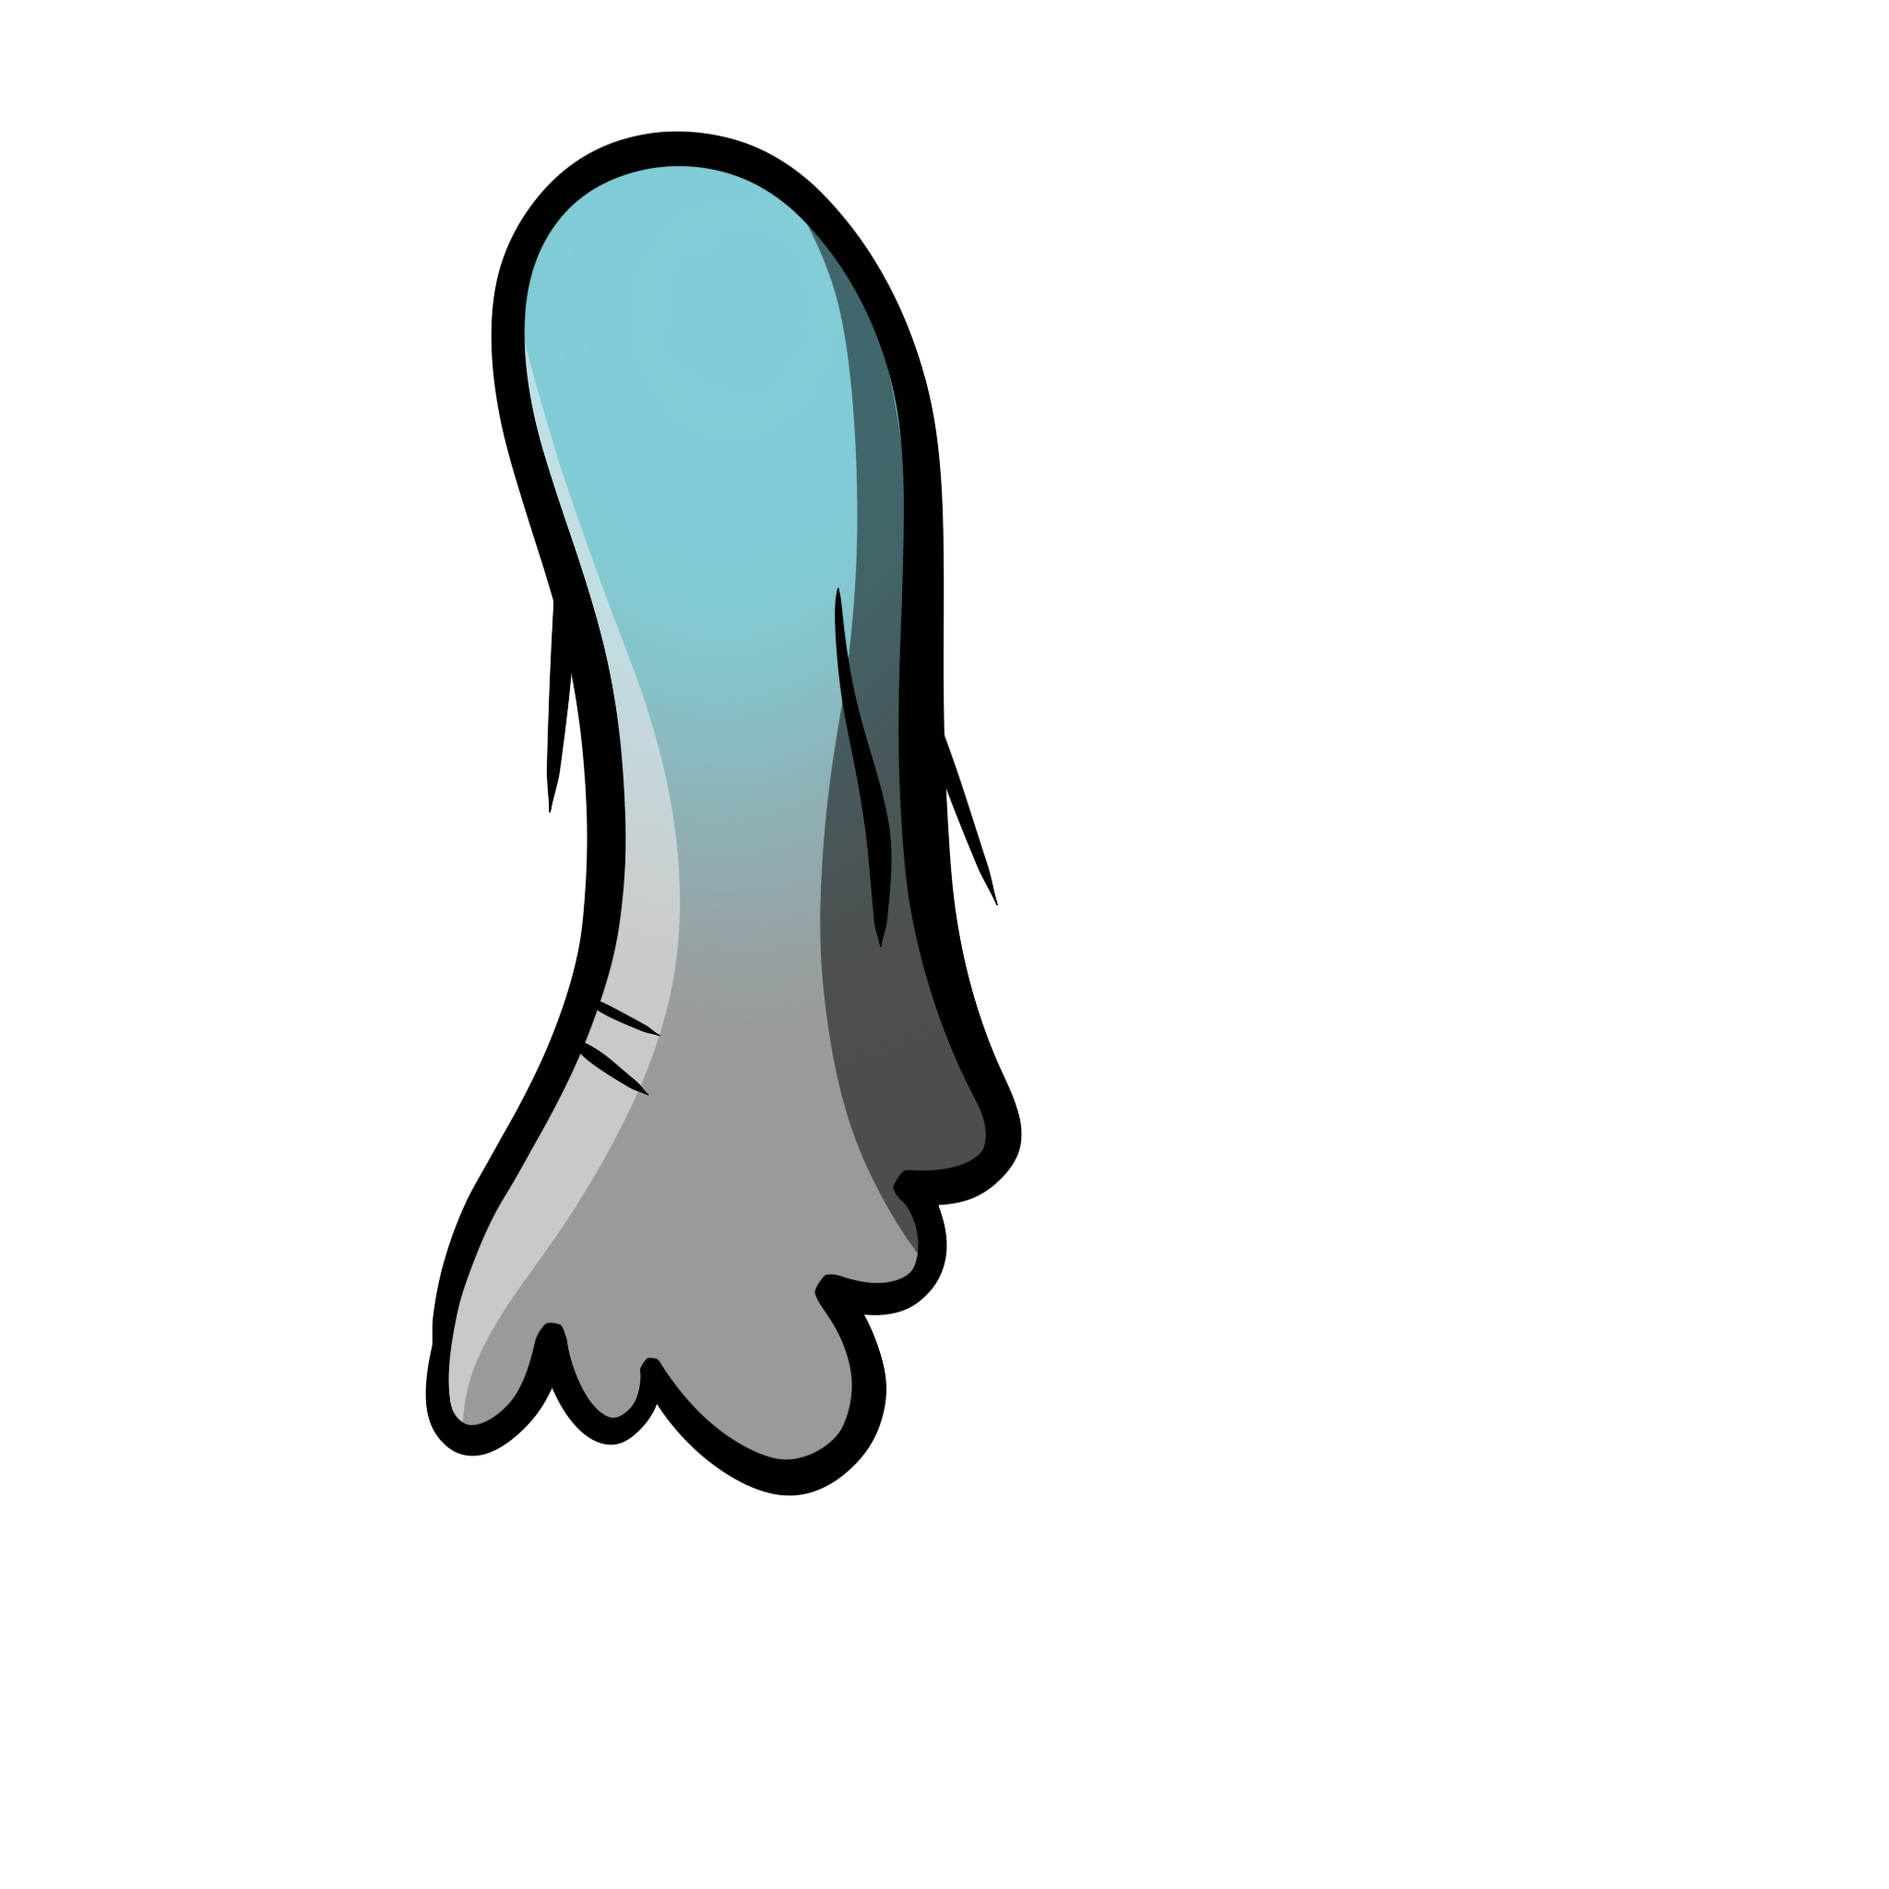
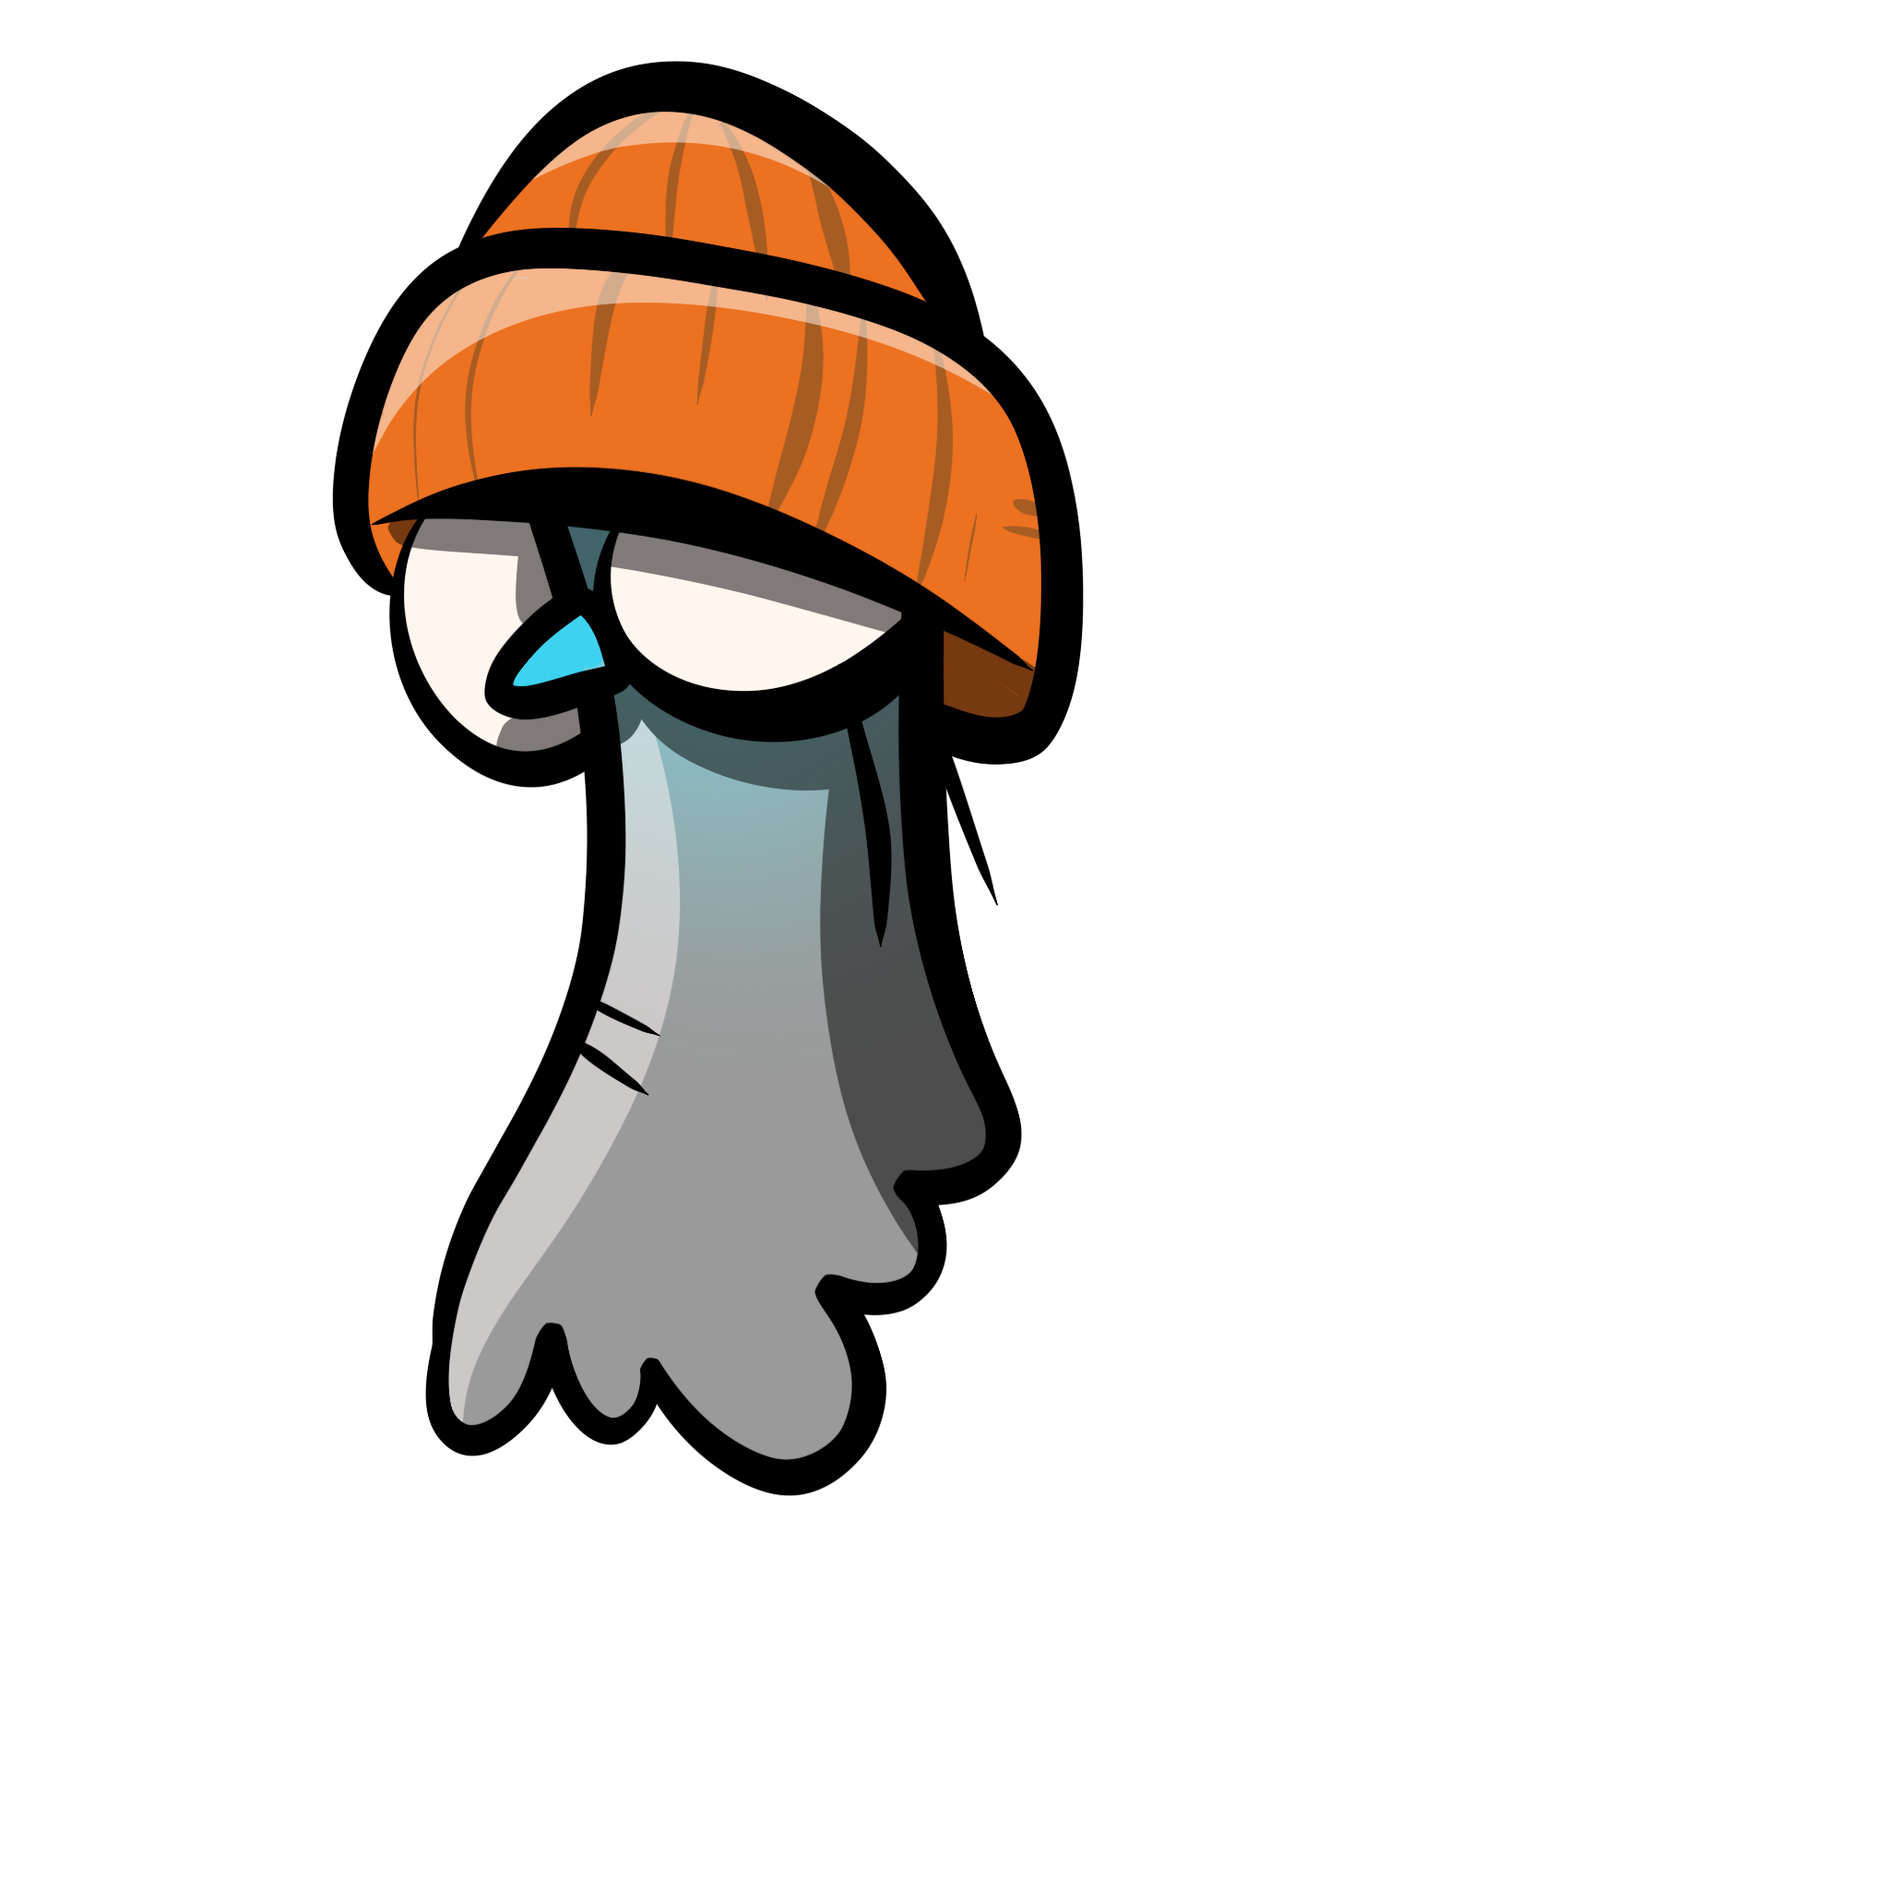
Implement multi-pigeon nest management and breeding
- Refactored database to support multiple pigeons per user at pigeons/{uid}/{id}.
- Implemented 3-pigeon cap (1 active, 2 nesting) with swapping logic.
- Added breeding requirement (5-day streak/cooldown) and sacrifice workflow.
- Updated Nest screen UI with Active/Nesting tags and swap buttons.
- Centered login screen and capped width at 540px.
- Improved pigeon animations and hatching reliability.

Changed region(s): [[0.1562, 0.0312, 0.5938, 0.4375]]

diff --git a/js/app.js b/js/app.js
@@ -434,18 +434,8 @@ const App = (() => {
         }
       }
 
-      // We want the active pigeon to be a hatched one if possible for Home/Profile display
-      const hatched = all.filter(p => p.hatched);
       const activeId = _userData.activePigeonId || _user.uid;
-
-      let candidate = all.find(p => p.id === activeId);
-
-      // If active candidate is an egg but we have hatched pigeons, default to a hatched one
-      if (candidate && !candidate.hatched && hatched.length > 0) {
-        candidate = hatched.find(p => p.id === _user.uid) || hatched[0];
-      }
-
-      _pigeon = candidate || all[0] || null;
+      _pigeon = all.find(p => p.id === activeId) || all[0] || null;
 
       // Sync locks for all pigeons (especially eggs in the nest)
       all.forEach(p => _syncLocksFromDB(_user.uid, p));
@@ -837,89 +827,111 @@ const App = (() => {
     const streakEl = document.getElementById("home-streak");
     if (streakEl) streakEl.textContent = streak;
 
-    // Mood state
-    const missedDays = _calcMissedDays(_userData.loginDates ?? []);
-    const rehabDay   = _pigeon.rehabDay ?? 0;
-    const mood = getMood(_pigeon.bond ?? 50, missedDays, rehabDay);
+    const careSection = document.getElementById("home-care-section");
+    const eggSection = document.getElementById("home-egg-section");
+    const moodBadge = document.getElementById("mood-badge");
+    const bondBar = document.querySelector(".mood-section");
 
-    // Build pigeon rig with correct animation state
-    const rig = document.getElementById("home-rig");
-    if (rig) {
-      if (_pigeon.hatched) {
+    if (_pigeon.hatched) {
+      careSection.classList.remove("hidden");
+      eggSection.classList.add("hidden");
+      moodBadge.classList.remove("hidden");
+      bondBar.classList.remove("hidden");
+
+      // Mood state
+      const missedDays = _calcMissedDays(_userData.loginDates ?? []);
+      const rehabDay   = _pigeon.rehabDay ?? 0;
+      const mood = getMood(_pigeon.bond ?? 50, missedDays, rehabDay);
+
+      // Build pigeon rig with correct animation state
+      const rig = document.getElementById("home-rig");
+      if (rig) {
         buildPigeonRig(rig, traits, { idle: mood === "happy" || mood === "neutral" });
         // Apply mood-specific animation class
         rig.classList.remove("feral","rehab","low-hp");
         if (mood === "feral") rig.classList.add("feral");
         if (mood === "rehab") rig.classList.add("rehab");
-      } else {
-        // Fallback for unhatched egg (though _loadPigeons tries to avoid this being active)
-        const daysDone = (_pigeon.incubationLog ?? []).length;
+      }
+
+      // Mood badge
+      const MOOD_LABELS = {
+        happy:   "😄 Happy",
+        neutral: "😐 Neutral",
+        upset:   "😤 Upset",
+        feral:   "💀 FERAL",
+        rehab:   "🩹 Recovering",
+      };
+      if (moodBadge) {
+        moodBadge.className = `mood-badge show ${mood}`;
+        moodBadge.textContent = MOOD_LABELS[mood] ?? mood;
+      }
+
+      updateBondUI(_pigeon.bond ?? 50);
+      renderStatChips("quick-stats", stats);
+
+      // Mark care cards as done and show countdowns
+      const CARE_FIELDS  = { food: "lastFed", play: "lastPlayed", train: "lastTrained" };
+      ["food","play","train"].forEach((care) => {
+        const btn   = document.getElementById(`care-${care}`);
+        const field = CARE_FIELDS[care];
+        const done  = _pigeon[field] === today || (_user && _isActionLocked(_user.uid, care));
+        if (btn) btn.classList.toggle("done", done);
+      });
+
+      let cdWrap = document.getElementById("care-countdown");
+      const anyDone = ["food","play","train"].some((c) => _pigeon[CARE_FIELDS[c]] === today);
+      if (anyDone) {
+        if (!cdWrap) {
+          cdWrap = document.createElement("div");
+          cdWrap.id = "care-countdown";
+          cdWrap.className = "countdown-wrap";
+          cdWrap.innerHTML = `
+            <span class="countdown-label">Next Peck available in</span>
+            <span class="countdown-timer js-countdown">—</span>
+            <span class="countdown-sub">Actions reset at midnight</span>
+          `;
+          careSection.appendChild(cdWrap);
+        }
+      } else if (cdWrap) cdWrap.remove();
+
+    } else {
+      // It's an egg!
+      careSection.classList.add("hidden");
+      eggSection.classList.remove("hidden");
+      moodBadge.classList.add("hidden");
+      bondBar.classList.add("hidden");
+
+      const daysDone = (_pigeon.incubationLog ?? []).length;
+      const rig = document.getElementById("home-rig");
+      if (rig) {
         let eggState = "egg_whole";
         if (daysDone === 1) eggState = "egg_crack1";
         if (daysDone >= 2) eggState = "egg_crack2";
         rig.innerHTML = `<img src="${PIGEON_CONFIG.eggPath(eggState)}" class="egg-img" style="max-width:200px">`;
       }
-    }
 
-    // Mood badge
-    const MOOD_LABELS = {
-      happy:   "😄 Happy",
-      neutral: "😐 Neutral",
-      upset:   "😤 Upset",
-      feral:   "💀 FERAL",
-      rehab:   "🩹 Recovering",
-    };
-    const badge = document.getElementById("mood-badge");
-    if (badge) {
-      badge.className = `mood-badge show ${mood}`;
-      badge.textContent = MOOD_LABELS[mood] ?? mood;
-    }
+      const label = document.getElementById("home-egg-label");
+      if (label) label.textContent = `Incubation: ${daysDone}/3 Days`;
 
-    updateBondUI(_pigeon.bond ?? 50);
-    renderStatChips("quick-stats", stats);
+      const usedToday = _pigeon.lastActionDate === today || (_user && _isActionLocked(_user.uid, `egg_${_pigeon.id}`));
+      document.getElementById("home-egg-grid").style.display = usedToday ? "none" : "grid";
+      document.getElementById("home-egg-used").classList.toggle("hidden", !usedToday);
 
-    // Mark care cards as done and show countdowns
-    const CARE_FIELDS  = { food: "lastFed", play: "lastPlayed", train: "lastTrained" };
-    const CARE_LABELS  = { food: "Next Feed", play: "Next Play", train: "Next Training" };
-    const CARE_SUBS    = { food: "Your bird is full", play: "Pigeon is tired", train: "Muscles need rest" };
-
-    ["food","play","train"].forEach((care) => {
-      const btn   = document.getElementById(`care-${care}`);
-      const field = CARE_FIELDS[care];
-      // Check database data OR localStorage — both count as done
-      const done  = _pigeon[field] === today
-        || (_user && _isActionLocked(_user.uid, care));
-      if (btn) btn.classList.toggle("done", done);
-    });
-
-    // Single countdown below care grid — shows time until midnight reset
-    let cdWrap = document.getElementById("care-countdown");
-    const anyDone = ["food","play","train"].some(
-      (c) => _pigeon[CARE_FIELDS[c]] === today
-    );
-    if (anyDone) {
-      if (!cdWrap) {
-        cdWrap = document.createElement("div");
-        cdWrap.id = "care-countdown";
-        cdWrap.className = "countdown-wrap";
-        cdWrap.innerHTML = `
-          <span class="countdown-label">Next Peck available in</span>
-          <span class="countdown-timer js-countdown">—</span>
-          <span class="countdown-sub">Actions reset at midnight</span>
-        `;
-        const careSection = document.querySelector(".care-section");
-        if (careSection) careSection.appendChild(cdWrap);
-      }
-    } else {
-      if (cdWrap) cdWrap.remove();
+      document.getElementById("quick-stats").innerHTML = "";
     }
   }
 
   function _initCareActions() {
-    document.querySelector(".care-grid")?.addEventListener("click", async (e) => {
+    document.getElementById("home-care-section")?.addEventListener("click", async (e) => {
       const card = e.target.closest(".care-card");
       if (!card || card.classList.contains("done")) return;
-      await _doCareAction(card.dataset.care);
+      if (card.dataset.care) await _doCareAction(card.dataset.care);
+    });
+
+    document.getElementById("home-egg-section")?.addEventListener("click", async (e) => {
+      const card = e.target.closest(".care-card");
+      if (!card) return;
+      if (card.dataset.egg) await _doEggAction(card.dataset.egg);
     });
   }
 
@@ -1070,9 +1082,15 @@ const App = (() => {
         } else {
           statusText = `EGG • ${daysDone}/3 DAYS`;
           if (daysDone >= 3) {
-            actionsHtml = `<button class="btn-primary btn-sm btn-hatch" data-id="${p.id}">HATCH!</button>`;
+            actionsHtml = `
+              ${!isActive ? `<button class="btn-ghost btn-sm btn-switch" style="margin-bottom:4px" data-id="${p.id}">Make Active</button>` : ''}
+              <button class="btn-primary btn-sm btn-hatch" data-id="${p.id}">HATCH!</button>
+            `;
           } else if (usedToday) {
-            actionsHtml = `<span class="nest-egg-done">Done for today</span>`;
+            actionsHtml = `
+              <span class="nest-egg-done">Done for today</span>
+              ${!isActive ? `<button class="btn-ghost btn-sm btn-switch" data-id="${p.id}">Make Active</button>` : ''}
+            `;
           } else {
             actionsHtml = `
               <div class="nest-egg-actions">
@@ -1080,6 +1098,7 @@ const App = (() => {
                 <button class="btn-nest-action" data-id="${p.id}" data-action="heat" title="Heat">🔥</button>
                 <button class="btn-nest-action" data-id="${p.id}" data-action="lick" title="Lick">👅</button>
               </div>
+              ${!isActive ? `<button class="btn-ghost btn-sm btn-switch" style="margin-top:4px" data-id="${p.id}">Make Active</button>` : ''}
             `;
           }
         }
@@ -1889,8 +1908,22 @@ const App = (() => {
     return streak;
   }
 
-  return { boot, saveNewPigeon, recordBattleResult };
+  return {
+    boot,
+    saveNewPigeon,
+    recordBattleResult,
+    // Expose for verification
+    _renderNestScreen,
+    _renderHomeScreen,
+    setDebugData: (data) => {
+      if (data.userData) _userData = data.userData;
+      if (data.pigeon) _pigeon = data.pigeon;
+      if (data.user) _user = data.user;
+    }
+  };
 })();
+
+window.App = App;
 
 /* ── Start the app ── */
 document.addEventListener("DOMContentLoaded", App.boot);

diff --git a/index.html b/index.html
@@ -246,7 +246,7 @@
     </div>
 
     <!-- Daily care actions -->
-    <div class="care-section">
+    <div class="care-section" id="home-care-section">
       <p class="section-label">Daily Care</p>
       <div class="care-grid">
         <button class="care-card" data-care="food" id="care-food">
@@ -261,6 +261,29 @@
           <i class="fa-solid fa-dumbbell"></i>
           <span>Train</span>
         </button>
+      </div>
+    </div>
+
+    <!-- Egg incubation section (hidden by default) -->
+    <div class="care-section hidden" id="home-egg-section">
+      <p class="section-label" id="home-egg-label">Incubation</p>
+      <div class="care-grid" id="home-egg-grid">
+        <button class="care-card" data-egg="shake">
+          <span style="font-size:24px">🫳</span>
+          <span>Shake</span>
+        </button>
+        <button class="care-card" data-egg="heat">
+          <span style="font-size:24px">🔥</span>
+          <span>Heat</span>
+        </button>
+        <button class="care-card" data-egg="lick">
+          <span style="font-size:24px">👅</span>
+          <span>Lick</span>
+        </button>
+      </div>
+      <div id="home-egg-used" class="countdown-wrap hidden">
+         <span class="countdown-label">Next Nudge in</span>
+         <span class="countdown-timer js-countdown">—</span>
       </div>
     </div>
 

diff --git a/js/config.js b/js/config.js
@@ -53,7 +53,7 @@ const PIGEON_CONFIG = {
     tail:     7,   // tail_1.png     … tail_7.png
     torso:    8,   // torso_1.png    … torso_8.png
     leg_near: 6,   // leg_near_1.png … leg_near_6.png
-    head:     16,  // head_1.png     … head_16.png
+    head:     24,  // head_1.png     … head_24.png
     wings:    8,   // wings_1.png    … wings_8.png
   },
 

diff --git a/css/style.css b/css/style.css
@@ -462,10 +462,6 @@ input { font-family: var(--font-body); }
 #screen-login {
   padding-bottom: 0;
   background: #000;
-  max-width: none;
-  left: 0;
-  transform: none;
-  width: 100vw;
 }
 .login-bg {
   position: absolute; inset: 0; overflow: hidden;

diff --git a/js/db_adapter.js b/js/db_adapter.js
@@ -255,3 +255,5 @@ const DB = {
     }
   }
 };
+
+window.DB = DB;
